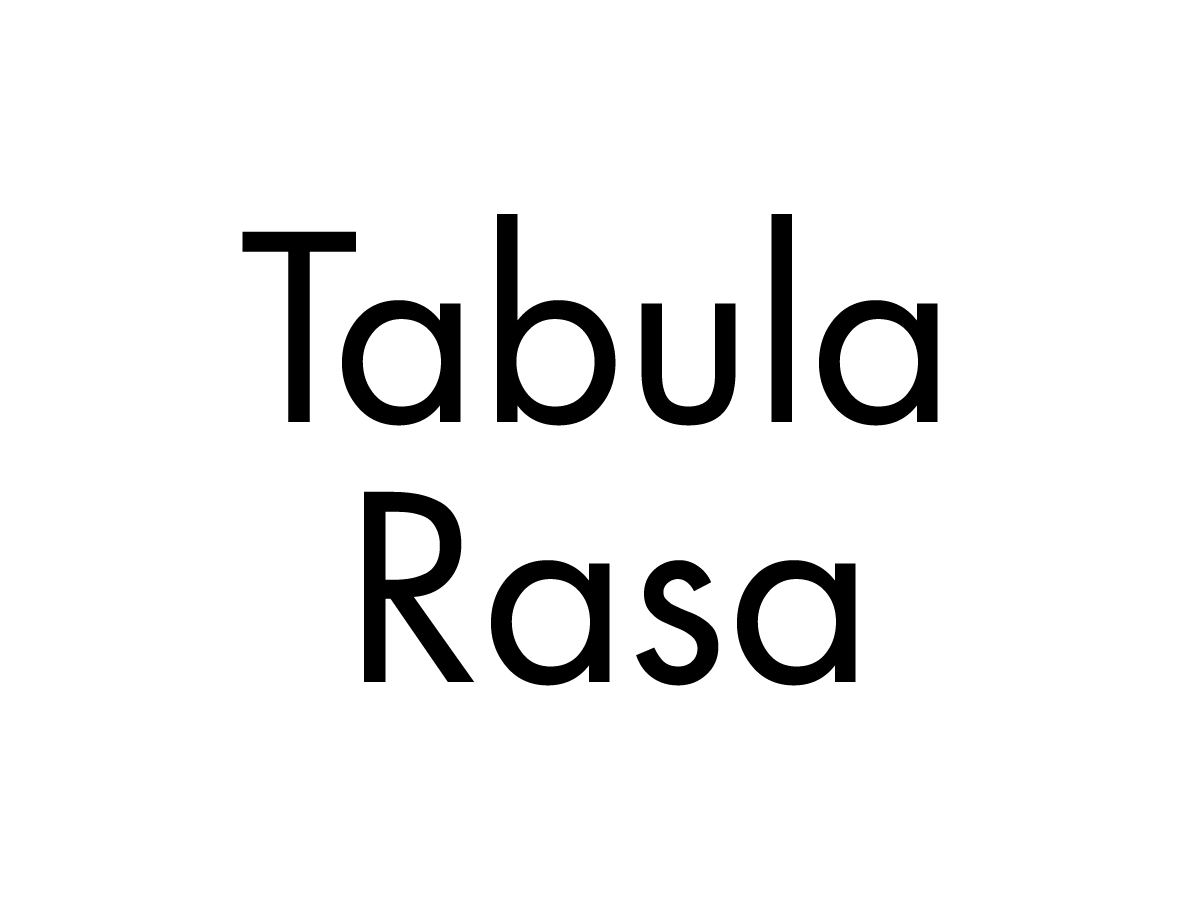
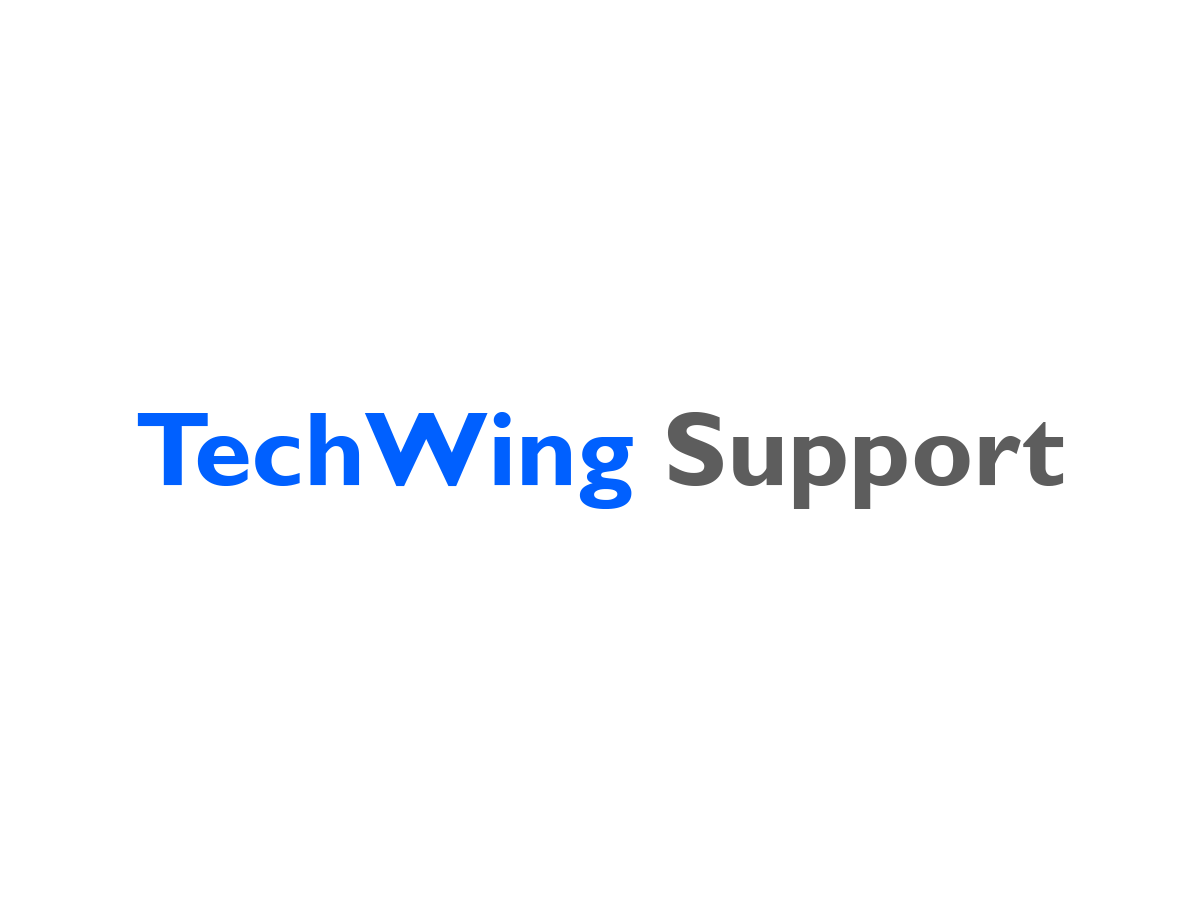
theme brand ud

Changed region(s): [[0.1233, 0.2178, 0.8942, 0.7778]]

diff --git a/style.css b/style.css
@@ -1,12 +1,12 @@
 /*
-Theme Name: tabularasa
-Theme URI: https://jmnyc.github.io/
-Author: Jose Morantin
-Author URI: https://jmnyc.github.io/
-Description: Minimal bootstrap theme template
+Theme Name: TechWing Theme
+Theme URI: https://techwingsupport.com/
+Author: TechWing Support
+Author URI: https://techwingsupport.com/
+Description: Theme for TechWing Support
 Version: 1.0.0
-License: GNU General Public License v2 or later
-Text Domain: tabularasa
+License:
+Text Domain: TechWing
 */
 
 /*--------------------------------------------------------------
